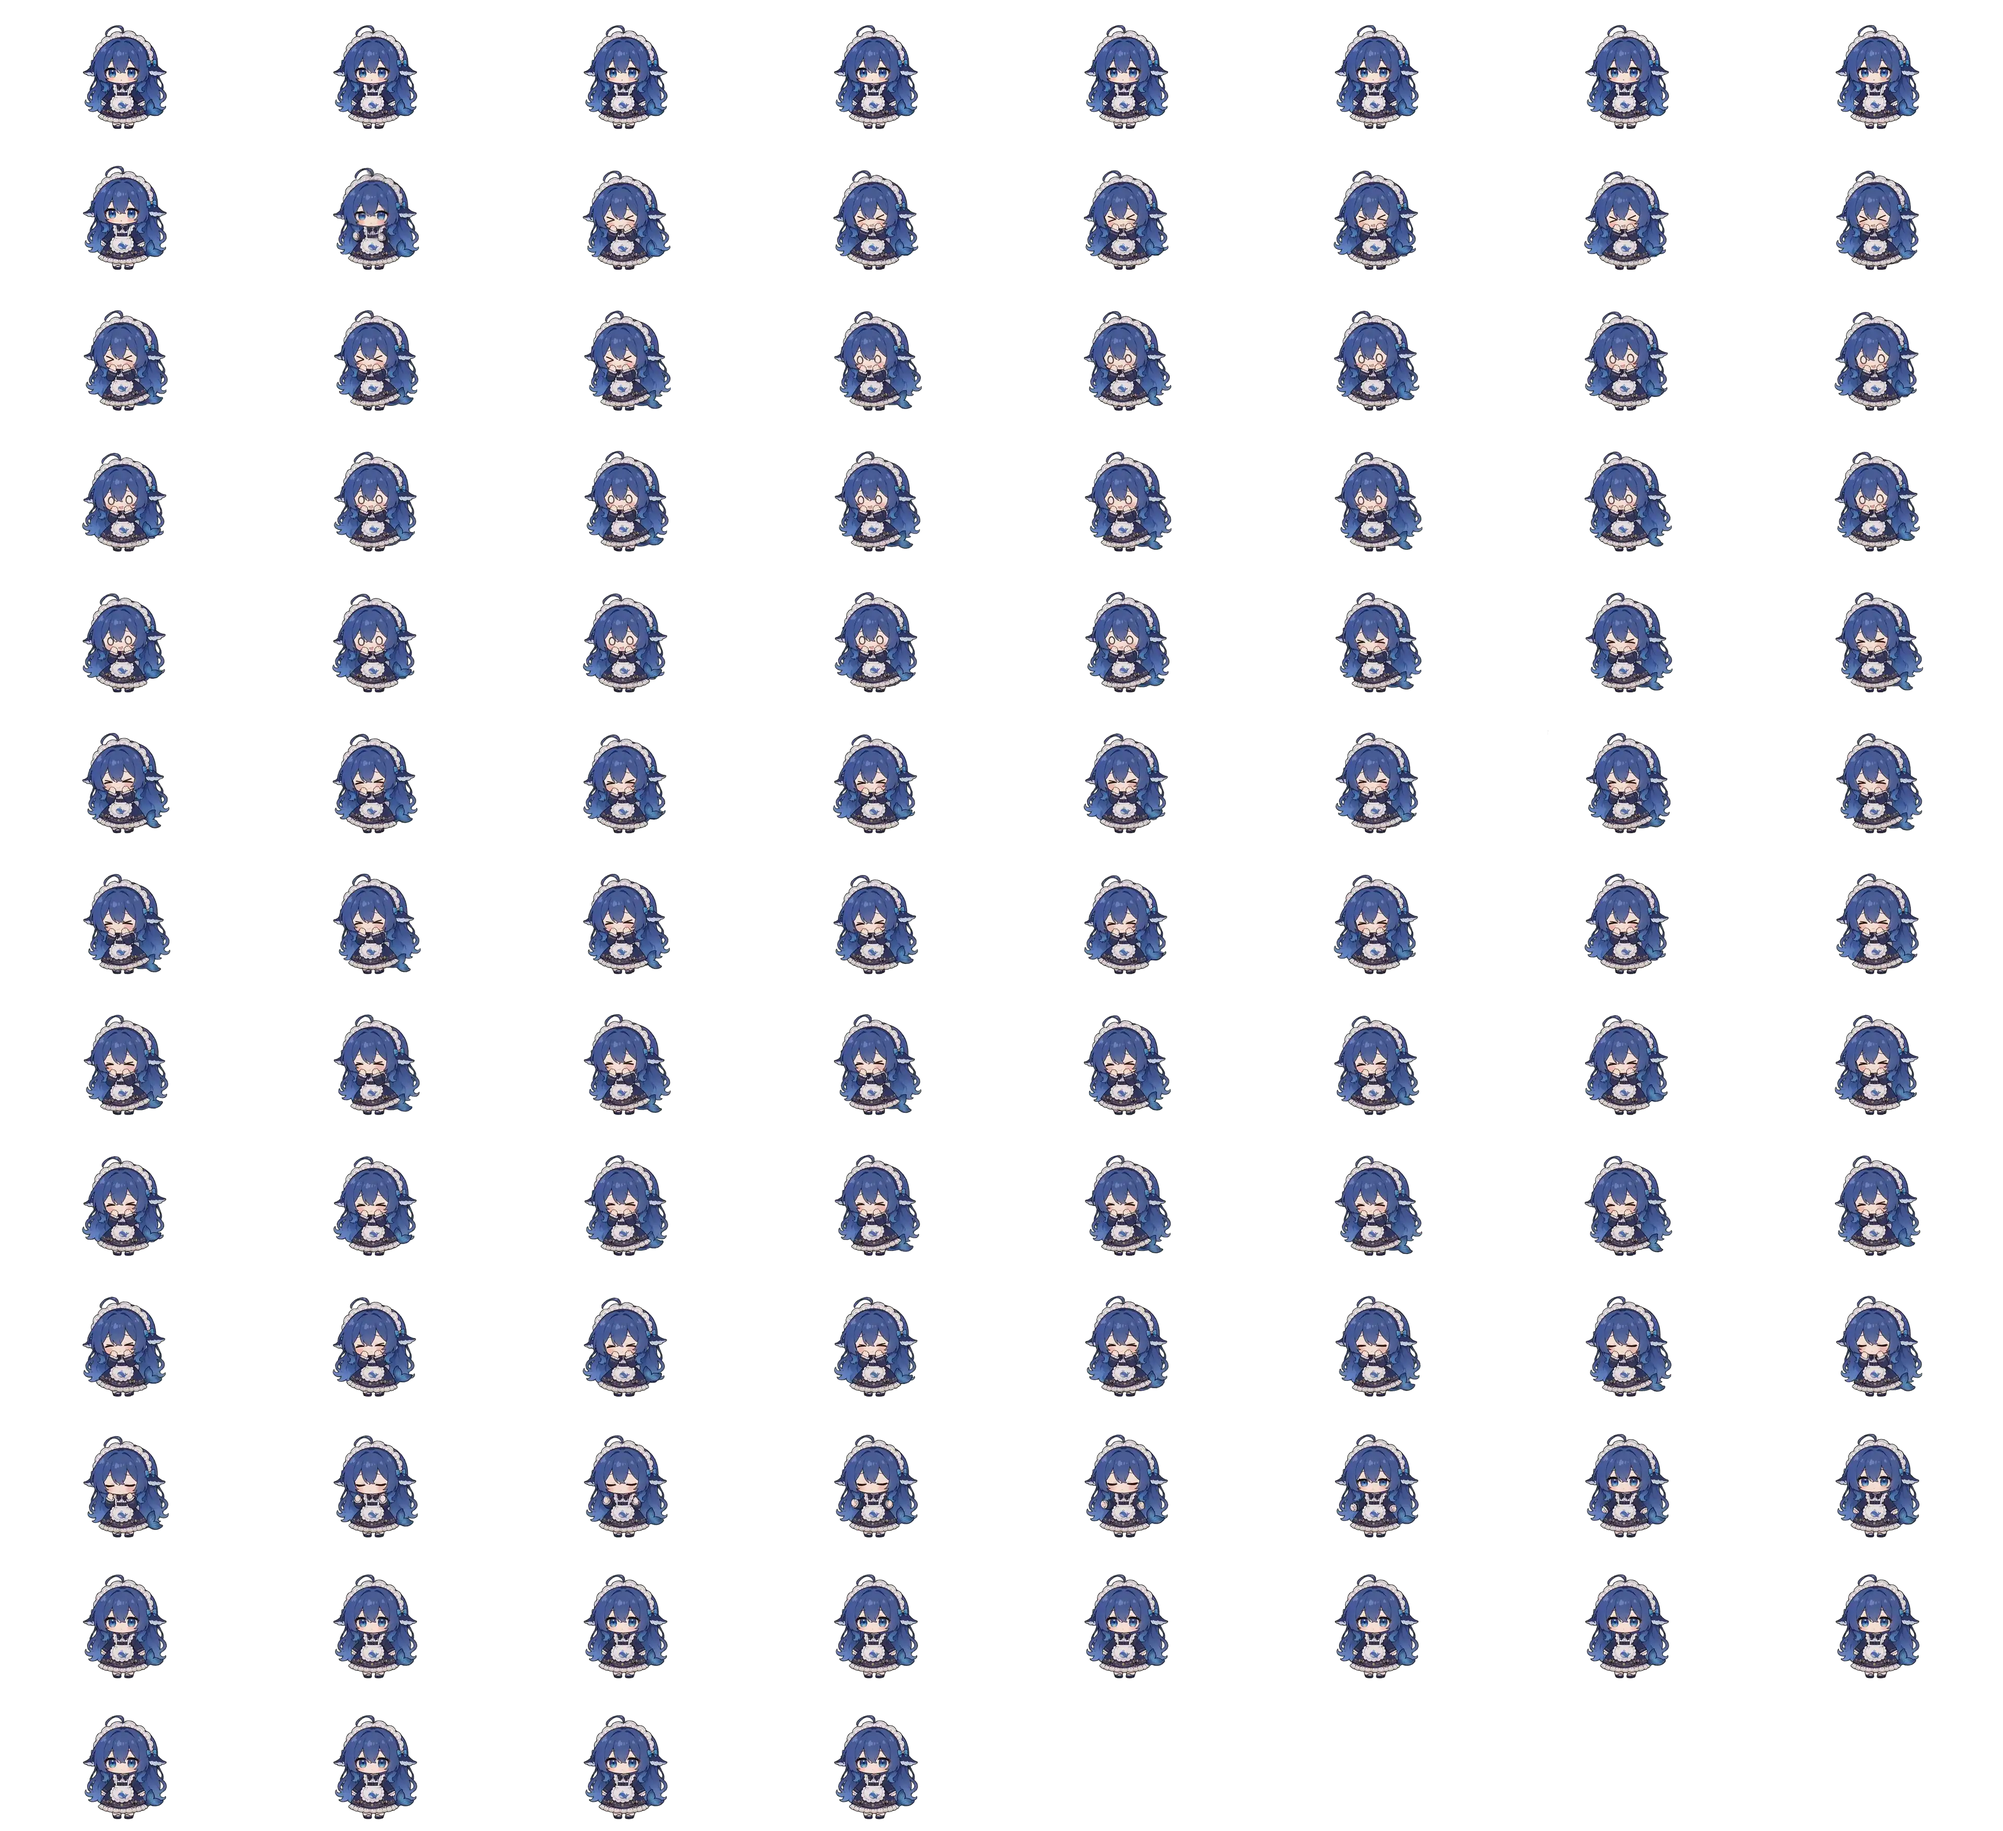
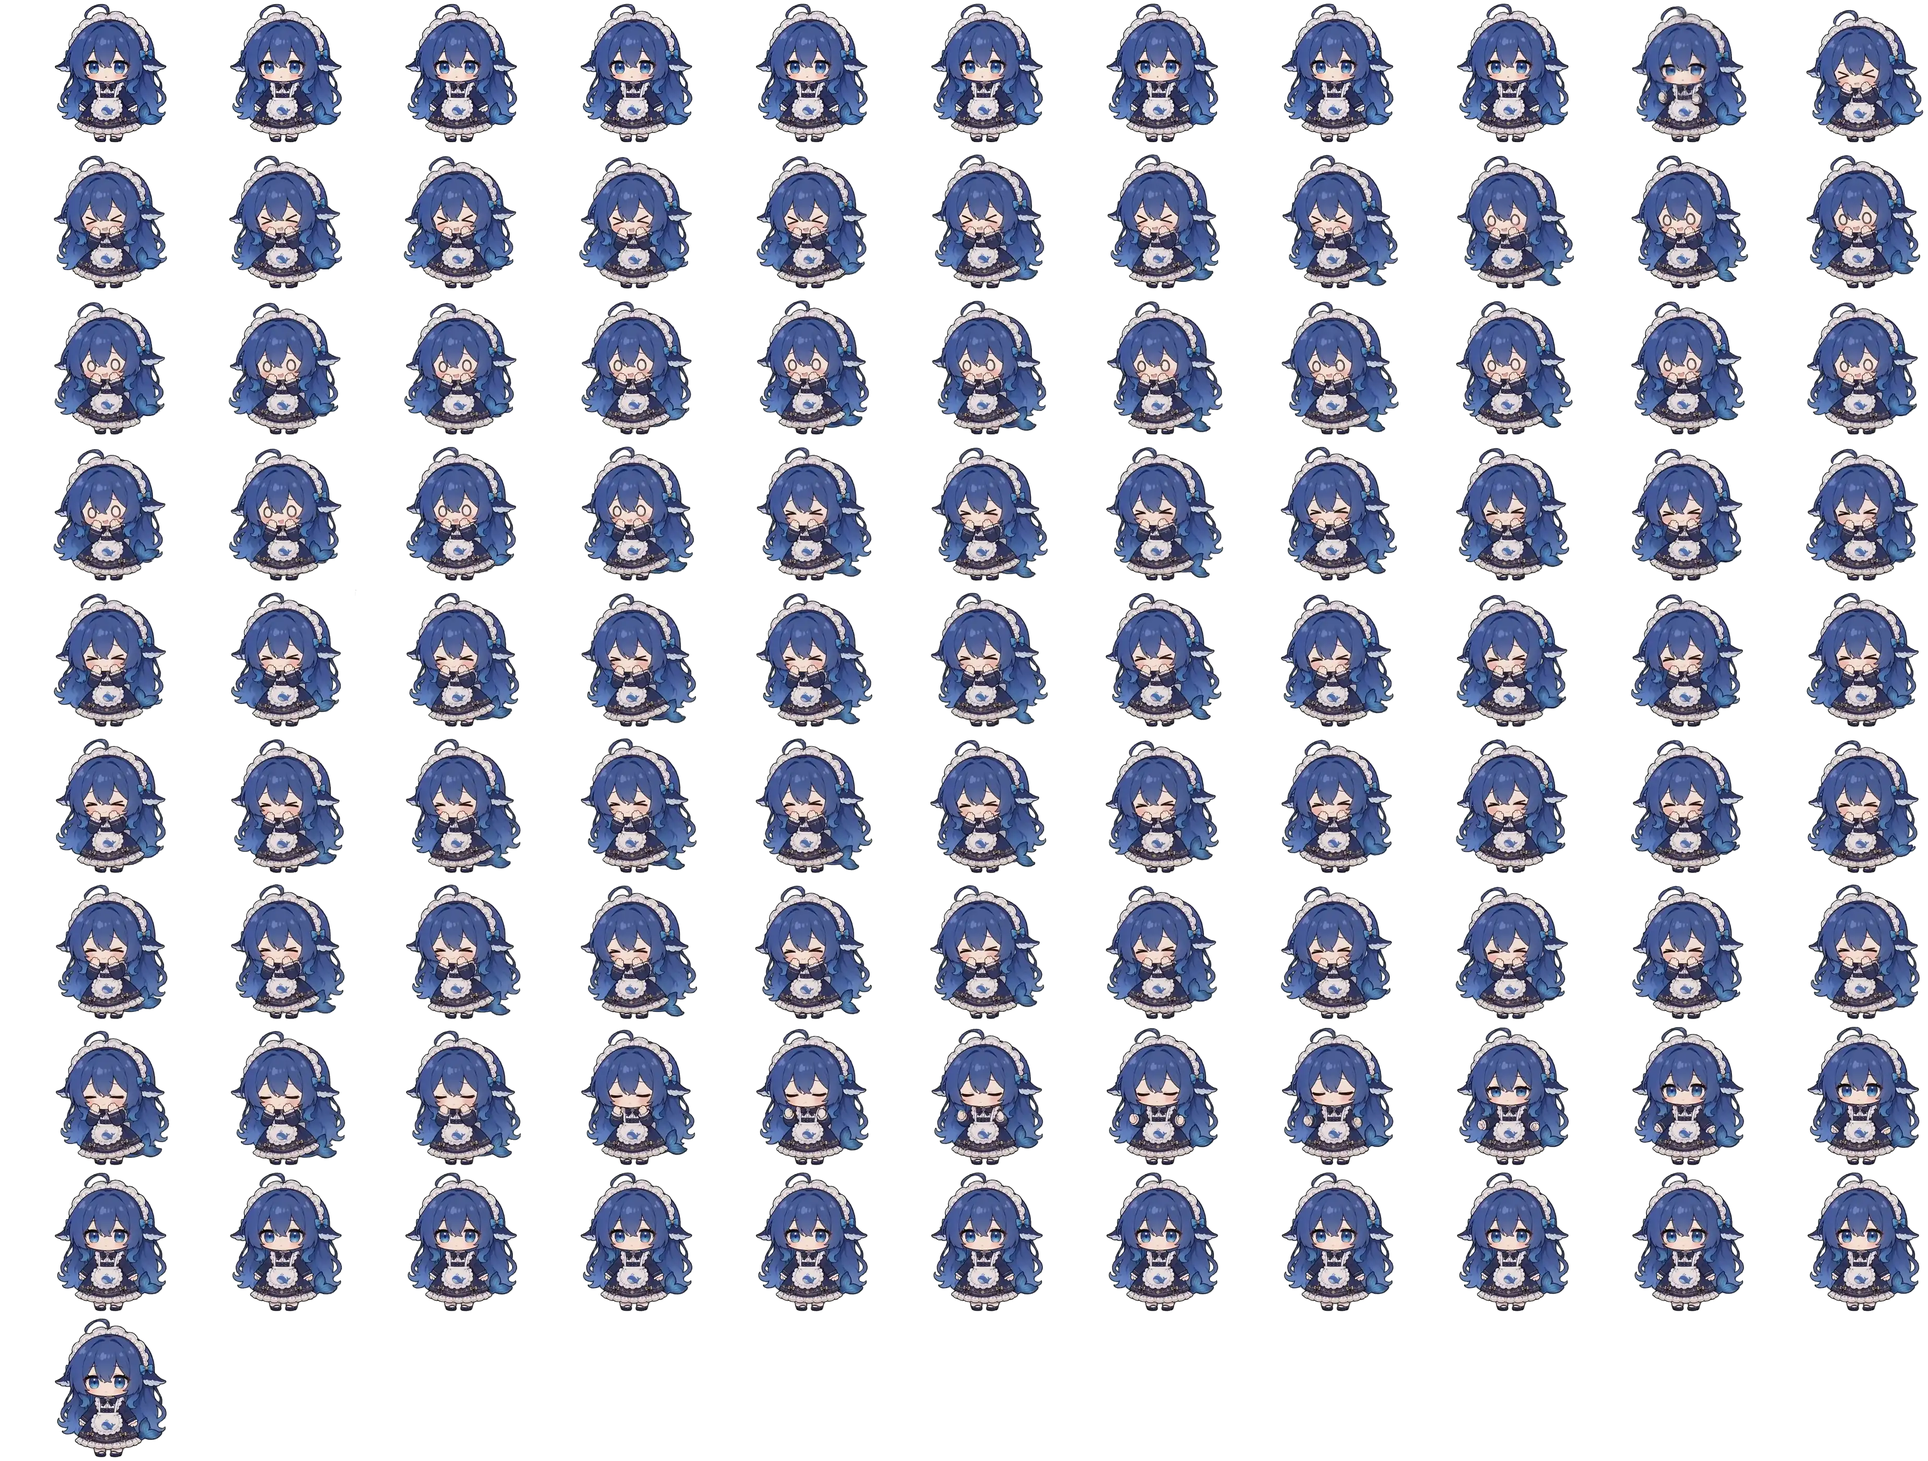
perf(pet): 精灵表按动作包围框裁切打包，清晰度回升到原片像素密度
- 每帧保留 640x360 原片密度并裁掉空白边，同屏人物更清楚；单张解码内存从 13.5MP 降到约 8MP
- manifest 增加 ox/oy/ref，引擎把裁切帧贴回原 16:9 位置，人物不会因此偏移
- 精灵缓存版本升到 47（素材变了），脚本版本同步 47

diff --git a/static/whale-pet/site-pet.js b/static/whale-pet/site-pet.js
@@ -13,8 +13,8 @@
   var STORE = 'whale-pet-v1';
   // 精灵资源必须跟着版本走，否则浏览器/CDN 会一直用旧缓存图。
   // SPRITE_VER 只跟着精灵素材走（素材没变就不该让用户重下 26MB）；PET_VER 是脚本自身版本。
-  var SPRITE_VER = '45';
-  var PET_VER = '46';
+  var SPRITE_VER = '47';
+  var PET_VER = '47';
   var LAYOUT_KEY = 'whale-pet-layout-v2';
   var GREET_KEY = 'whale-pet-greeted';
   var EXPAND_KEY = 'whale-pet-expanded';
@@ -625,7 +625,16 @@
       var t0 = window.performance && performance.now ? performance.now() : 0;
       var cw = canvasEl.width || 1280, ch = canvasEl.height || 720;
       canvasCtx.clearRect(0, 0, cw, ch);
-      canvasCtx.drawImage(a.img, gx * info.fw, gy * info.fh, info.fw, info.fh, 0, 0, cw, ch);
+      // 裁过空白边的精灵表要贴回它在 16:9 画布里的原位，人物才不会左右飘；
+      // 没带 ref 的旧表仍整格铺满。
+      var dx = 0, dy = 0, dw = cw, dh = ch;
+      if (info.ref && info.ref[0] && info.ref[1]) {
+        dx = (info.ox || 0) / info.ref[0] * cw;
+        dy = (info.oy || 0) / info.ref[1] * ch;
+        dw = info.fw / info.ref[0] * cw;
+        dh = info.fh / info.ref[1] * ch;
+      }
+      canvasCtx.drawImage(a.img, gx * info.fw, gy * info.fh, info.fw, info.fh, dx, dy, dw, dh);
       if (t0) tuneSpriteScale(performance.now() - t0);
     } catch (e) { fallbackPosterOnly(); }
   }
@@ -1983,7 +1992,7 @@
     var txt = '渲染 v' + PET_VER + '：' + engineName + (isMobileBrowser ? '（手机）' : '（桌面）') + ' · 屏幕 dpr ' + dpr;
     if (engineName === 'canvas') {
       var m = spriteManifest && spriteManifest.idle;
-      txt += m ? (' · 帧 ' + m.fw + '×' + m.fh + ' · ' + (Math.round(m.frames / m.dur * 10) / 10) + 'fps') : ' · 精灵表未就绪';
+      txt += m ? (' · 帧 ' + m.fw + '×' + m.fh + (m.ref ? '(裁切自' + m.ref[0] + '×' + m.ref[1] + ')' : '(整幅)') + ' · ' + (Math.round(m.frames / m.dur * 10) / 10) + 'fps') : ' · 精灵表未就绪';
       if (canvasEl) txt += ' · 画布 ' + canvasEl.width + '×' + canvasEl.height;
     }
     return txt;

diff --git a/layouts/_default/baseof.html b/layouts/_default/baseof.html
@@ -97,7 +97,7 @@
   {{- $noPet := or (hasPrefix .RelPermalink "/account/") (hasPrefix .RelPermalink "/categories/") (hasPrefix .RelPermalink "/tags/") (hasPrefix .RelPermalink "/author/") -}}
   {{- if and (not .IsHome) (not $noPet) -}}
     {{- partial "whale-pet-config.html" . -}}
-    <script src="/whale-pet/site-pet.js?v=46"></script>
+    <script src="/whale-pet/site-pet.js?v=47"></script>
   {{- end -}}
 
   {{- /* 自定义 JS 文件 */ -}}
